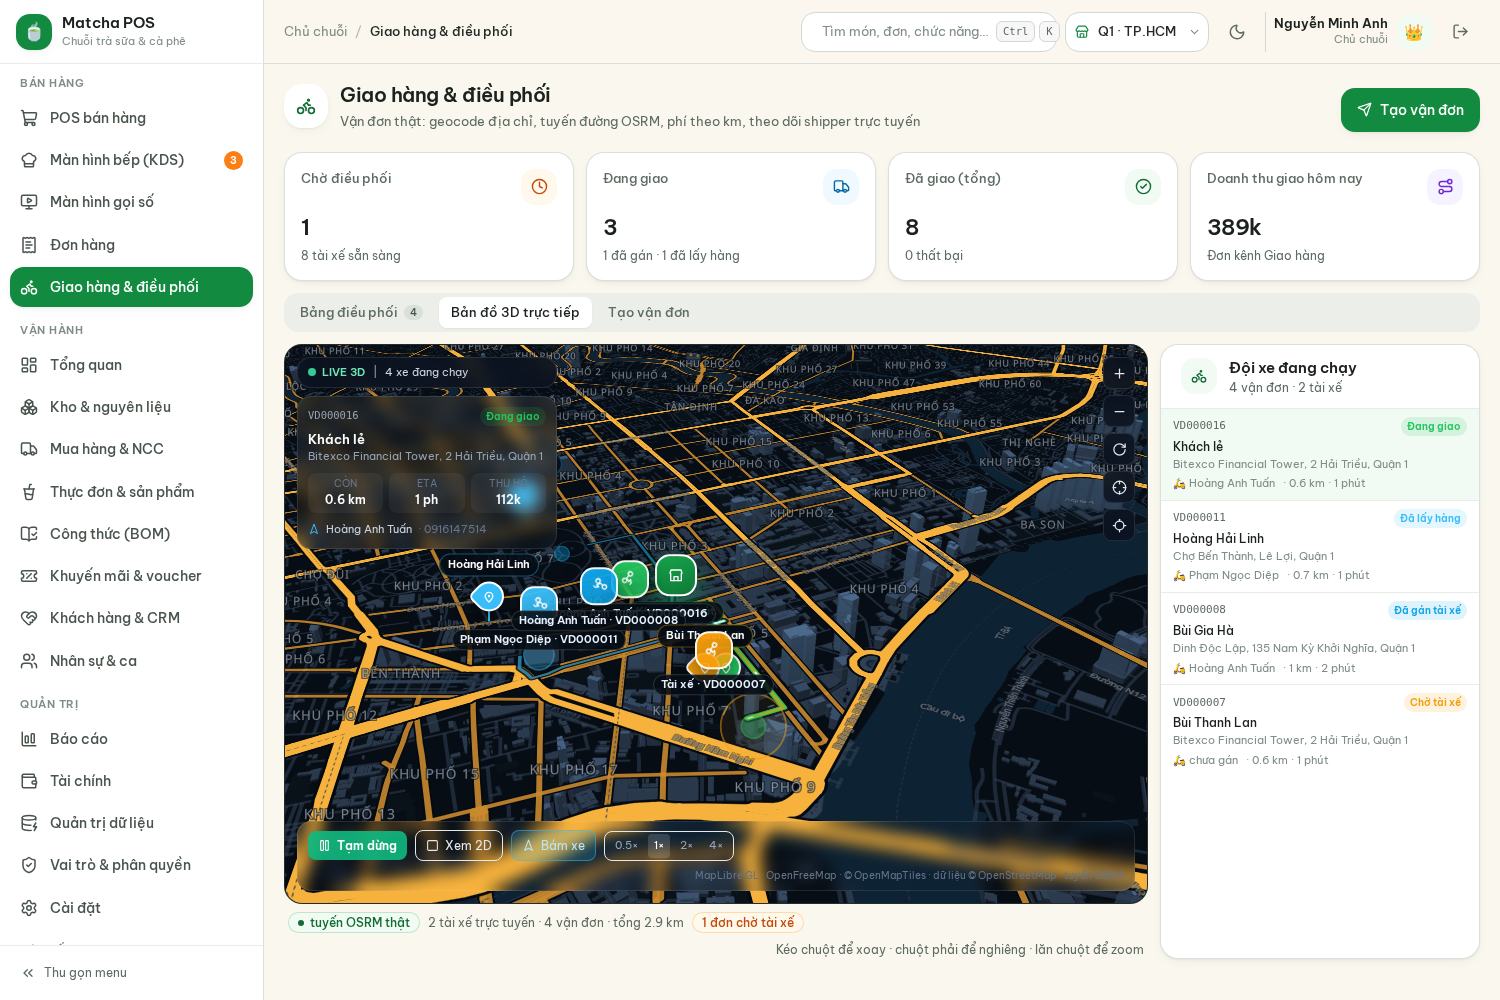
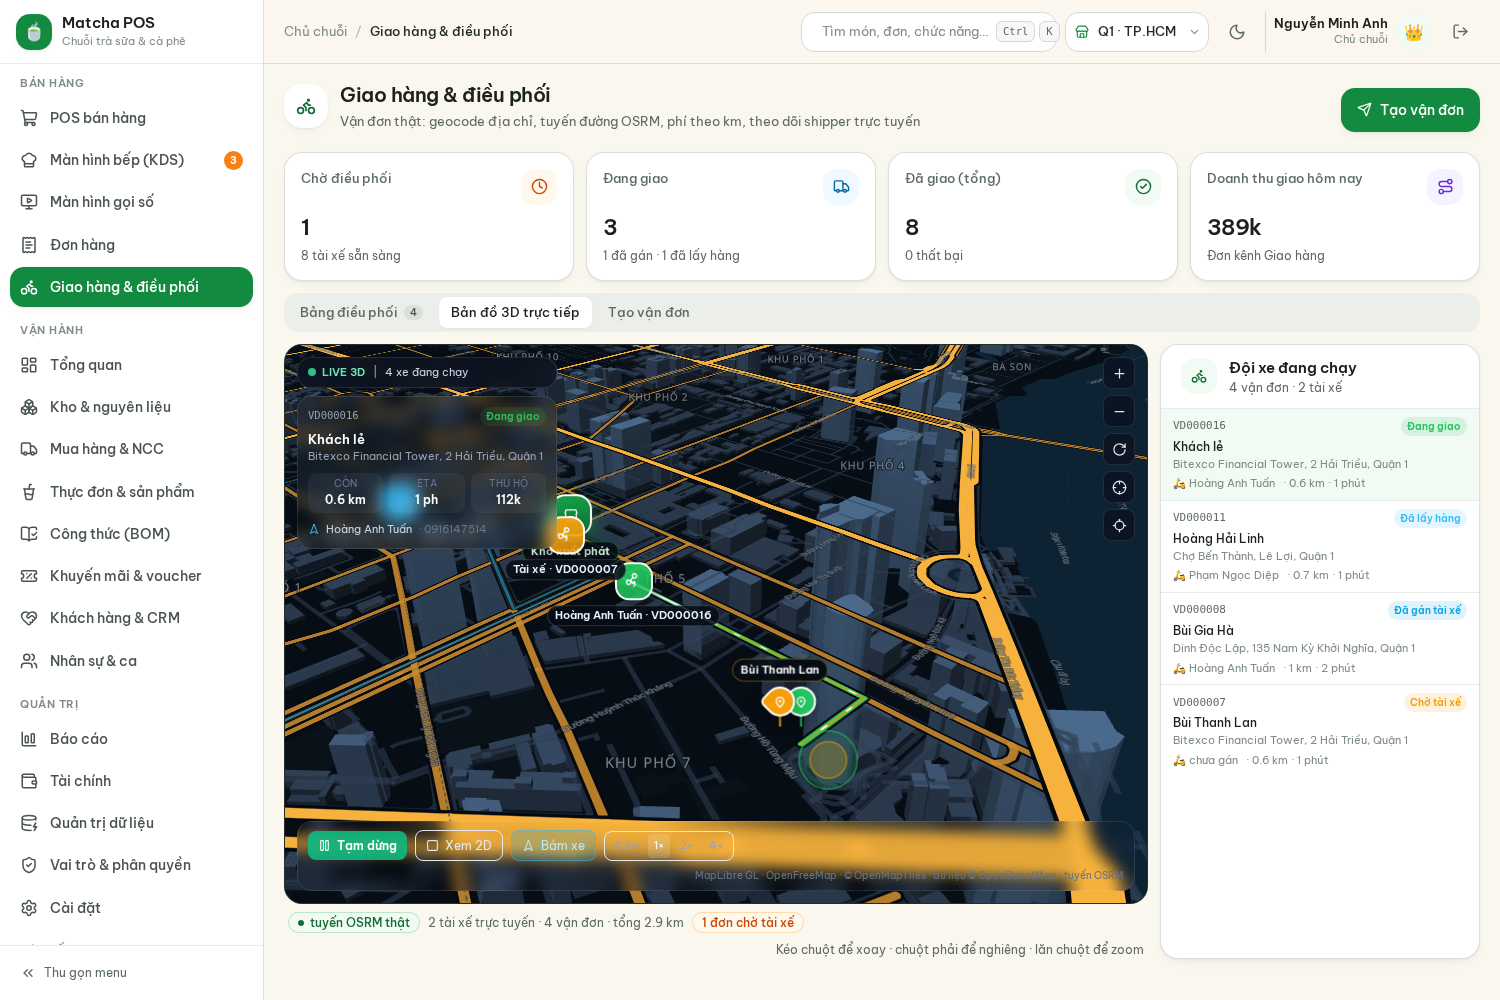
polish(map3d): tự căn toàn tuyến khi có tuyến OSRM, bám xe không phá animation, nền HUD đậm hơn

Changed region(s): [[0.184, 0.341, 0.7667, 0.93]]

diff --git a/src/components/FleetMap3D.tsx b/src/components/FleetMap3D.tsx
@@ -93,6 +93,8 @@ export function FleetMap3D({
   const [follow, setFollow] = useState(true)
   const [speedMul, setSpeedMul] = useState(1)
   const [zoomRatio, setZoomRatio] = useState(1)
+  const animUntil = useRef(0)      // đang chạy animation camera → tạm ngừng "bám xe"
+  const lastFollow = useRef(0)
 
   const selected = shipments.find((s) => s.id === selectedId) ?? shipments[0]
 
@@ -112,7 +114,7 @@ export function FleetMap3D({
       container: holder.current,
       style: mapStyle3D(true),
       center: [origin.lng, origin.lat],
-      zoom: 14.6,
+      zoom: 15.4,
       pitch: 55,
       bearing: -22,
       maxPitch: 78,
@@ -234,7 +236,10 @@ export function FleetMap3D({
           ;(m.getSource('traveled') as GeoJSONSource | undefined)?.setData({
             type: 'Feature', properties: {}, geometry: { type: 'LineString', coordinates: traveled },
           } as never)
-          if (follow) m.easeTo({ center: [pos.lng, pos.lat], duration: 380, essential: true })
+          if (follow && now > animUntil.current && now - lastFollow.current > 320) {
+            lastFollow.current = now
+            m.jumpTo({ center: [pos.lng, pos.lat] })
+          }
         }
         pulseFeatures.push({
           type: 'Feature', properties: { r: 6 + 26 * (p % 1), o: 0.35 * (1 - (p % 1)), color: s.color },
@@ -284,6 +289,7 @@ export function FleetMap3D({
     const p = progress.current[selected.id] ?? 0
     if (!selected.route) { map.current.easeTo({ center: [selected.lng, selected.lat], duration: 700 }); return }
     const pos = pointAlong(selected.route.geometry, p)
+    animUntil.current = performance.now() + 900
     map.current.easeTo({ center: [pos.lng, pos.lat], duration: 700, ...(pitch3d ? { pitch: 55 } : { pitch: 0 }), essential: true })
     // eslint-disable-next-line react-hooks/exhaustive-deps
   }, [selected?.id, ready])
@@ -296,10 +302,12 @@ export function FleetMap3D({
     if (!m || !s?.route) return
     const lngs = s.route.geometry.map(([, lng]) => lng)
     const lats = s.route.geometry.map(([lat]) => lat)
+    animUntil.current = performance.now() + 1800
     m.fitBounds([[Math.min(...lngs), Math.min(...lats)], [Math.max(...lngs), Math.max(...lats)]], {
-      padding: { top: 110, bottom: 120, left: 120, right: 260 }, pitch: 58, duration: 1400,
+      padding: { top: 110, bottom: 130, left: 130, right: 270 }, pitch: 58, duration: 1600,
     })
     fitted.current = true
+    console.info('[matcha][map3d] fit tuyến', s.code, lngs.length, 'điểm, zoom', m.getZoom().toFixed(2))
   }, [ready, shipments])
 
   const zoomBy = (d: number) => {
@@ -345,7 +353,7 @@ export function FleetMap3D({
 
       {/* HUD trên */}
       <div className="pointer-events-none absolute left-3 top-3 flex flex-col gap-2">
-        <div className="pointer-events-auto flex items-center gap-2 rounded-xl border border-white/10 bg-[#0a1220]/85 px-2.5 py-1.5 backdrop-blur">
+        <div className="pointer-events-auto flex items-center gap-2 rounded-xl border border-white/10 bg-[#0a1220]/92 px-2.5 py-1.5 backdrop-blur">
           <span className="flex items-center gap-1.5 text-[11px] font-semibold text-emerald-300">
             <span className="h-2 w-2 animate-pulse rounded-full bg-emerald-400" /> LIVE 3D
           </span>
@@ -354,7 +362,7 @@ export function FleetMap3D({
           {fallback && <span className="ml-1 rounded bg-amber-500/20 px-1.5 py-0.5 text-[10px] text-amber-300">nền 2D dự phòng</span>}
         </div>
         {selected && (
-          <div className="pointer-events-auto w-[260px] rounded-xl border border-white/10 bg-[#0a1220]/88 p-2.5 backdrop-blur">
+          <div className="pointer-events-auto w-[260px] rounded-xl border border-white/10 bg-[#0a1220]/95 p-2.5 backdrop-blur">
             <div className="flex items-center justify-between">
               <span className="font-mono text-[10.5px] text-slate-400">{selected.code}</span>
               <span className="rounded-full px-1.5 py-0.5 text-[10px] font-semibold" style={{ background: `${selected.color}22`, color: selected.color }}>{selected.statusLabel}</span>
@@ -393,14 +401,14 @@ export function FleetMap3D({
           { icon: <Locate size={15} />, label: 'Xem toàn tuyến', onClick: zoomToRoute },
         ].map((b) => (
           <button key={b.label} title={b.label} onClick={b.onClick}
-            className="grid h-8 w-8 place-items-center rounded-lg border border-white/10 bg-[#0a1220]/85 text-slate-200 backdrop-blur transition hover:bg-[#12253c]">
+            className="grid h-8 w-8 place-items-center rounded-lg border border-white/10 bg-[#0a1220]/92 text-slate-200 backdrop-blur transition hover:bg-[#12253c]">
             {b.icon}
           </button>
         ))}
       </div>
 
       {/* thanh dưới */}
-      <div className="absolute inset-x-3 bottom-3 flex flex-wrap items-center gap-2 rounded-xl border border-white/10 bg-[#0a1220]/88 px-2.5 py-2 backdrop-blur">
+      <div className="absolute inset-x-3 bottom-3 flex flex-wrap items-center gap-2 rounded-xl border border-white/10 bg-[#0a1220]/95 px-2.5 py-2 backdrop-blur">
         <button onClick={() => setPlaying((p) => !p)}
           className="flex items-center gap-1.5 rounded-lg bg-emerald-500/90 px-2.5 py-1.5 text-[11.5px] font-semibold text-white transition hover:bg-emerald-400">
           {playing ? <Pause size={13} /> : <Play size={13} />} {playing ? 'Tạm dừng' : 'Chạy tiếp'}
